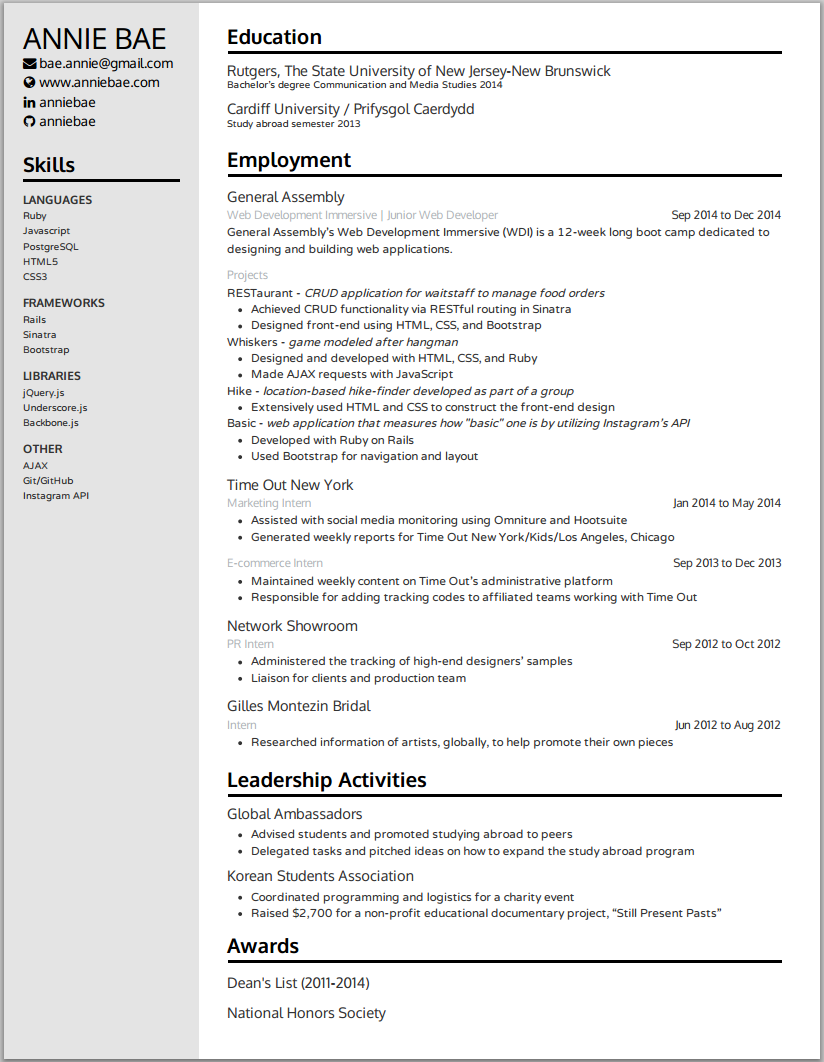
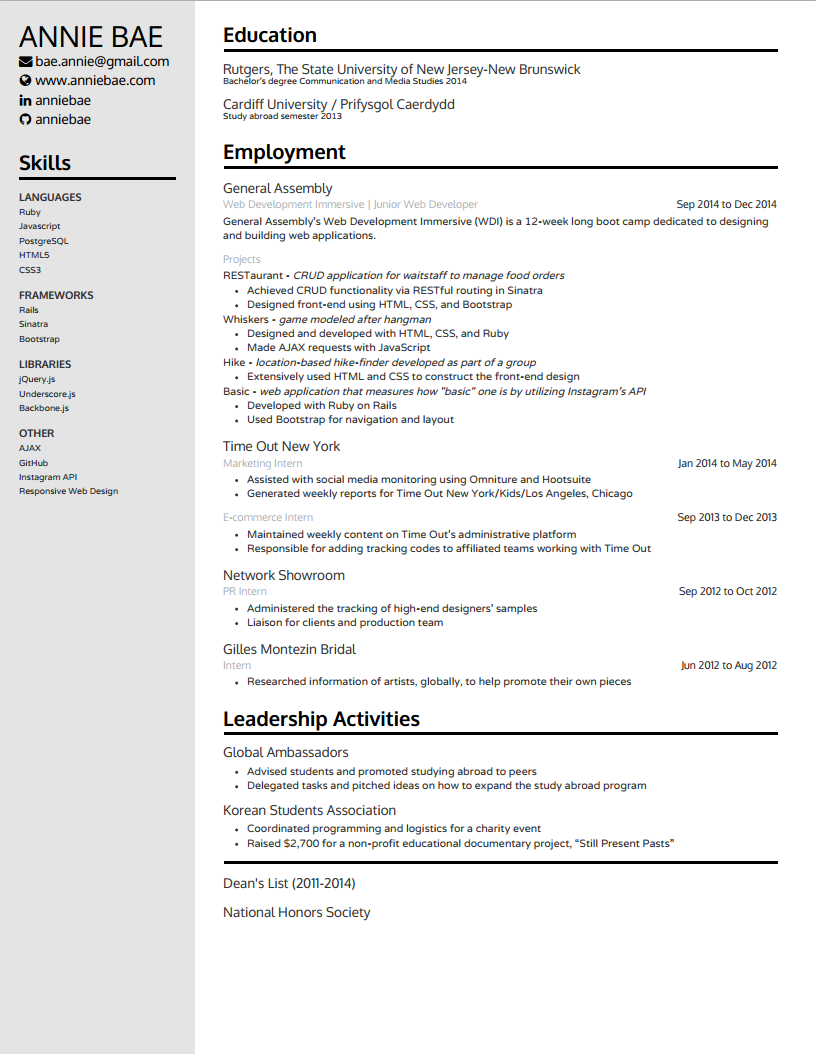
resume edited to show description on hover

diff --git a/stylesheets/styles.css b/stylesheets/styles.css
@@ -186,14 +186,46 @@ h4 {
   margin: 25% auto;
 }
 
-.resume-img {
-  width: 60%;
-  margin-left: 18%;
-  opacity: 0.5;
+#resume {
+  margin-top: 200px;
+  margin-bottom: 50px;
+  padding-top: 200px;
 }
 
-.resume-img:hover {
-  opacity: 1;
+.resume-img {
+  height: 500px;
+  width: 400px;
+}
+
+.resume-photo {
+  position: relative;
+  margin: auto;
+  width: 400px;
+}
+
+.resume-caption {
+  position: absolute;
+  top: 0;
+  left: 0;
+  z-index: 3;
+  display: none;
+  background-color: lightgrey;
+  opacity: 0.9;
+  height: 100%;
+  width: 100%;
+  text-align: center;
+}
+
+/*.resume-img {
+  width: 25%;
+  margin-left: 37%;
+}
+
+.resume-wrapper {
+  width: 25%;
+  margin-left: 37%;
+  background-color: red;
+  z-index: 5;
 }
 
 #resume {
@@ -202,10 +234,11 @@ h4 {
   padding-top: 200px;
 }
 
+
 #resume-button {
   margin-left: 43%;
   padding-top: 1%;
-}
+}*/
 
 .carousel-indicators {
   left: 42%;

diff --git a/index.html b/index.html
@@ -176,13 +176,31 @@
 
 
 <!-- RESUME DIV -->
-  <div id="resume">
+
+<!--   <div id="resume">
     <img src="images/resume.png" class="resume-img"alt="">
 
     <div id="resume-button">
       <input type="button" value="My Resume (pdf)" class="btn btn-large btn-default" onclick="window.open('images/AnnieBae.pdf', '_blank')">
     </div>
+  </div> -->
+
+
+
+  
+  <div id="resume">
+    <div class="resume-photo">
+      <img src="images/resume.png" class="resume-img">
+      <div class="resume-caption">
+        <p class="resume-text">
+          Click below to open PDF
+        </p>
+        <input type="buttom" value="resume PDF" class="btn btn-large btn-default" onclick="window.open('images/AnnieBae.pdf', '_blank')">
+      </div>
+    </div>
   </div>
+
+
   
 <!-- PHOTOGRAPHY DIV -->
   <div id="photography">

diff --git a/javascripts/main.js b/javascripts/main.js
@@ -20,6 +20,15 @@ $(function() {
     $('.project-caption', this).stop(true, true).hide();
   });
 
+
+  $('.resume-photo').hover(function(){
+    $('.resume-caption', this).stop(true, true).slideDown("normal");
+  }, function(){
+    $('.resume-caption', this).stop(true, true).hide();
+  });
+
+
+
   $('#projects-tab').on('click', function() {
     $(this).parent().find('li.active').removeClass('active');
     $(this).addClass('active');
